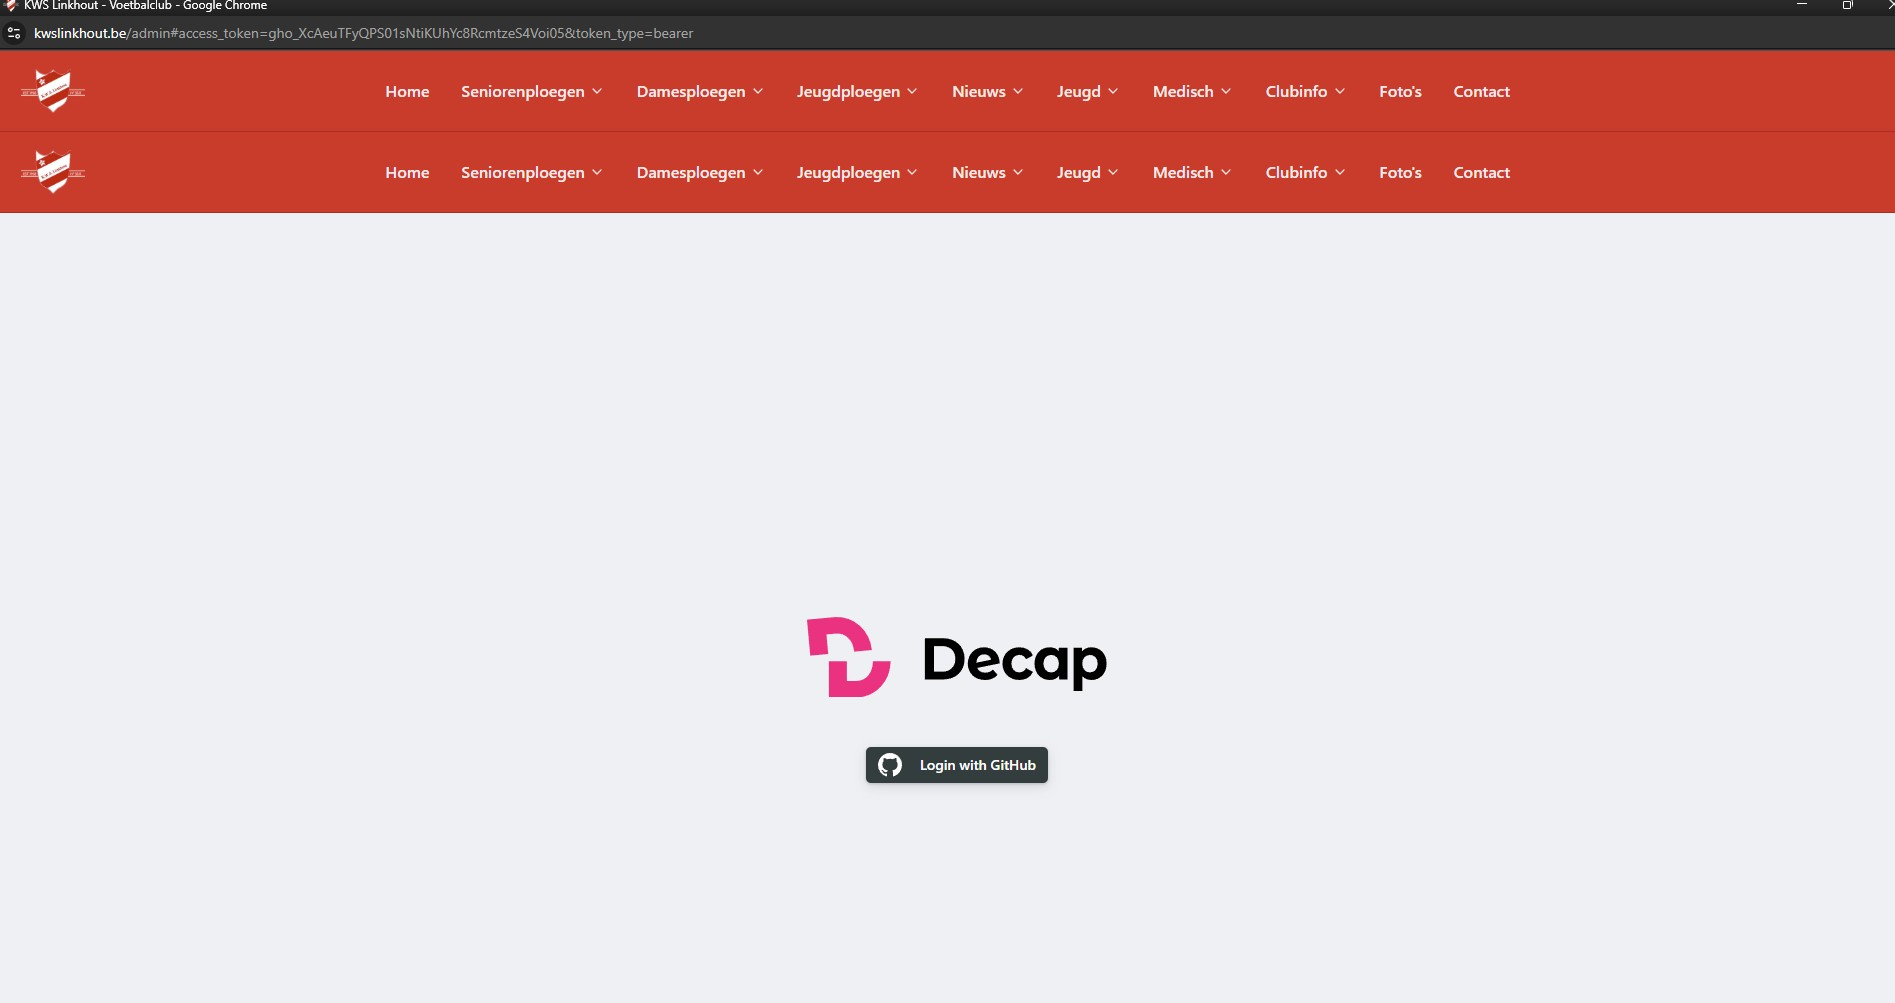
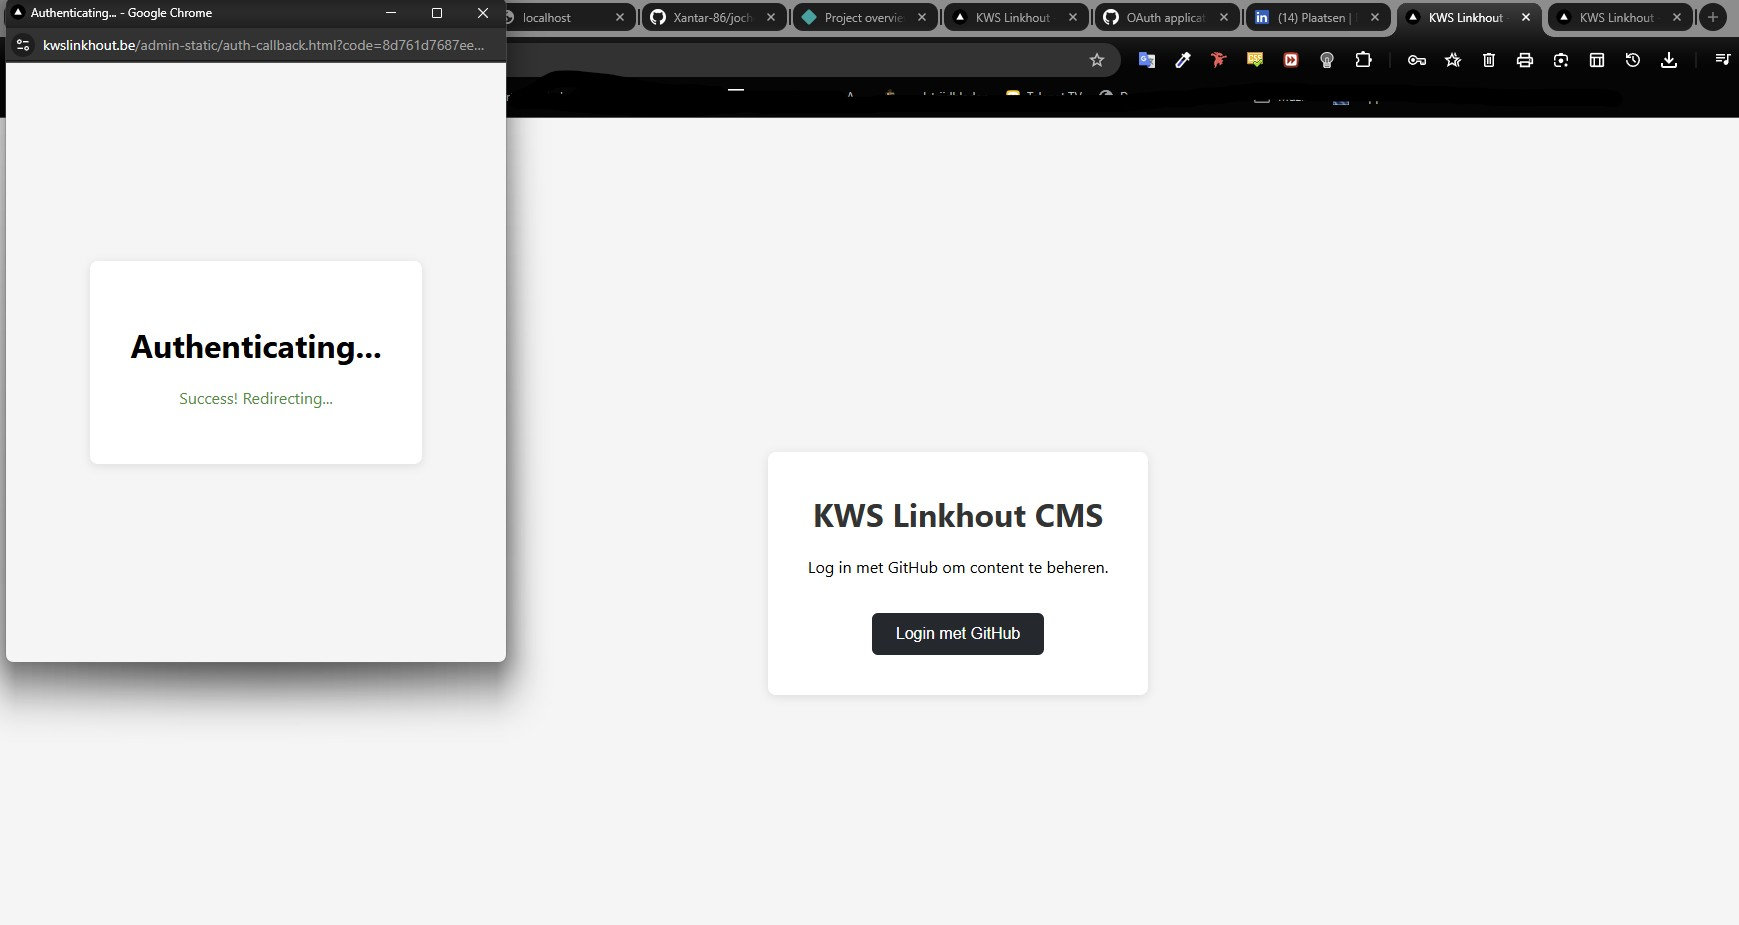
Fix: Redirect to admin-static instead of /admin/ to prevent loop

diff --git a/public/admin-static/login.html b/public/admin-static/login.html
@@ -39,6 +39,7 @@
     .btn:hover { background: #000; }
     .error { color: #d32f2f; margin-top: 20px; }
     .success { color: #388e3c; margin-top: 20px; }
+    .note { color: #666; font-size: 14px; margin-top: 20px; }
   </style>
 </head>
 <body>
@@ -46,28 +47,46 @@
     <h1>KWS Linkhout CMS</h1>
     <p>Log in met GitHub om content te beheren.</p>
     <button class="btn" onclick="login()">Login met GitHub</button>
+    <p class="note">Je wordt doorgestuurd naar GitHub voor authenticatie.</p>
     <div id="message"></div>
   </div>
   
   <script>
-    // Check if we have a token in the URL (returning from auth)
-    const hash = window.location.hash;
-    if (hash && hash.includes('access_token')) {
-      // Extract token and store it
-      const params = new URLSearchParams(hash.substring(1));
-      const token = params.get('access_token');
+    // Check if already logged in
+    const user = localStorage.getItem('decap-cms-user');
+    if (user) {
+      try {
+        const userData = JSON.parse(user);
+        if (userData.token) {
+          // Already logged in, go to admin
+          window.location.href = '/admin-static/';
+        }
+      } catch (e) {
+        // Invalid data, clear it
+        localStorage.removeItem('decap-cms-user');
+      }
+    }
+    
+    // Listen for messages from popup
+    window.addEventListener('message', function(e) {
+      if (e.origin !== window.location.origin) return;
       
-      if (token) {
-        // Store in localStorage for Decap CMS
+      if (e.data && typeof e.data === 'string' && e.data.startsWith('authorization:github:success:')) {
+        const token = e.data.substring('authorization:github:success:'.length);
+        
+        // Store token
         localStorage.setItem('decap-cms-user', JSON.stringify({
           backendName: 'github',
           token: token
         }));
         
-        // Redirect to admin
-        window.location.href = '/admin/';
+        // Show success and redirect
+        document.getElementById('message').innerHTML = '<p class="success">Login successful! Redirecting...</p>';
+        setTimeout(() => {
+          window.location.href = '/admin-static/';
+        }, 500);
       }
-    }
+    });
     
     function login() {
       const clientId = 'Ov23liafFGErfmejn48L';
@@ -76,26 +95,17 @@
       
       const url = `https://github.com/login/oauth/authorize?client_id=${clientId}&redirect_uri=${redirectUri}&scope=${scope}`;
       
-      // Open popup
-      const popup = window.open(url, 'github-oauth', 'width=500,height=600');
+      // Open popup centered
+      const width = 500;
+      const height = 600;
+      const left = (window.screen.width / 2) - (width / 2);
+      const top = (window.screen.height / 2) - (height / 2);
       
-      // Listen for the token
-      window.addEventListener('message', function(e) {
-        if (e.origin !== window.location.origin) return;
-        
-        if (e.data && e.data.startsWith('authorization:github:success:')) {
-          const token = e.data.substring('authorization:github:success:'.length);
-          
-          // Store token
-          localStorage.setItem('decap-cms-user', JSON.stringify({
-            backendName: 'github',
-            token: token
-          }));
-          
-          // Redirect to admin
-          window.location.href = '/admin/';
-        }
-      });
+      const popup = window.open(url, 'github-oauth', `width=${width},height=${height},top=${top},left=${left}`);
+      
+      if (!popup) {
+        document.getElementById('message').innerHTML = '<p class="error">Popup was blocked. Please allow popups for this site.</p>';
+      }
     }
   </script>
 </body>

diff --git a/public/admin-static/auth-callback.html b/public/admin-static/auth-callback.html
@@ -42,12 +42,14 @@
       if (error) {
         statusEl.textContent = 'Error: ' + error;
         statusEl.className = 'error';
+        setTimeout(() => window.location.href = '/admin-static/login.html', 2000);
         return;
       }
       
       if (!code) {
         statusEl.textContent = 'Error: No authorization code received';
         statusEl.className = 'error';
+        setTimeout(() => window.location.href = '/admin-static/login.html', 2000);
         return;
       }
       
@@ -59,25 +61,34 @@
             statusEl.textContent = 'Success! Redirecting...';
             statusEl.className = 'success';
             
-            // Send token to parent window (the login page)
+            // Store token in localStorage
+            localStorage.setItem('decap-cms-user', JSON.stringify({
+              backendName: 'github',
+              token: data.token
+            }));
+            
+            // Send token to parent window if opened as popup
             if (window.opener) {
               window.opener.postMessage(
                 'authorization:github:success:' + data.token,
                 window.location.origin
               );
-              setTimeout(() => window.close(), 500);
-            } else {
-              // No opener - redirect to login with token
-              window.location.href = '/admin-static/login.html#access_token=' + data.token;
             }
+            
+            // Redirect to admin-static (NOT /admin/ which loops back)
+            setTimeout(() => {
+              window.location.href = '/admin-static/';
+            }, 500);
           } else {
             statusEl.textContent = 'Error: ' + (data.error || 'Failed to get token');
             statusEl.className = 'error';
+            setTimeout(() => window.location.href = '/admin-static/login.html', 2000);
           }
         })
         .catch(err => {
           statusEl.textContent = 'Error: ' + err.message;
           statusEl.className = 'error';
+          setTimeout(() => window.location.href = '/admin-static/login.html', 2000);
         });
     })();
   </script>

diff --git a/src/app/admin/[[...slug]]/page.tsx b/src/app/admin/[[...slug]]/page.tsx
@@ -1,6 +1,39 @@
-import { redirect } from 'next/navigation';
+"use client";
+
+import { useEffect } from "react";
 
 export default function AdminPage() {
-  // Redirect to custom login page
-  redirect('/admin-static/login.html');
+  useEffect(() => {
+    // Check if user is logged in
+    const user = localStorage.getItem("decap-cms-user");
+    
+    if (user) {
+      try {
+        const userData = JSON.parse(user);
+        if (userData.token) {
+          // Logged in, go to admin-static
+          window.location.href = "/admin-static/";
+          return;
+        }
+      } catch (e) {
+        // Invalid data
+        localStorage.removeItem("decap-cms-user");
+      }
+    }
+    
+    // Not logged in, go to login
+    window.location.href = "/admin-static/login.html";
+  }, []);
+
+  return (
+    <div style={{ 
+      height: "100vh", 
+      display: "flex", 
+      alignItems: "center", 
+      justifyContent: "center",
+      fontFamily: "sans-serif"
+    }}>
+      <p>Checking login status...</p>
+    </div>
+  );
 }

diff --git a/public/admin-static/index.html b/public/admin-static/index.html
@@ -9,7 +9,20 @@
     const user = localStorage.getItem('decap-cms-user');
     if (!user) {
       // Not logged in, redirect to login
-      window.location.href = '/admin-static/login.html';
+      window.location.replace('/admin-static/login.html');
+    } else {
+      try {
+        const userData = JSON.parse(user);
+        if (!userData.token) {
+          // No token, redirect to login
+          localStorage.removeItem('decap-cms-user');
+          window.location.replace('/admin-static/login.html');
+        }
+      } catch (e) {
+        // Invalid data, clear it
+        localStorage.removeItem('decap-cms-user');
+        window.location.replace('/admin-static/login.html');
+      }
     }
   </script>
 </head>
